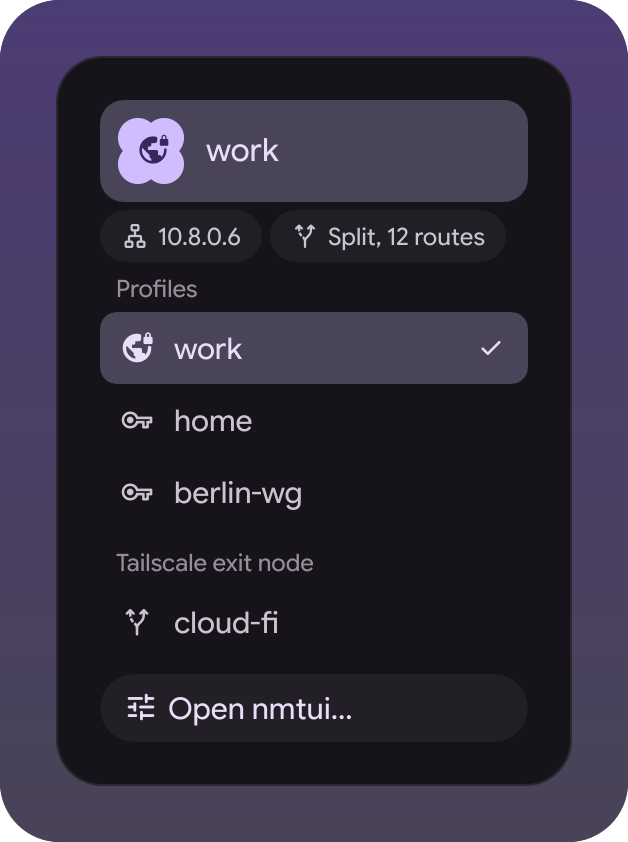
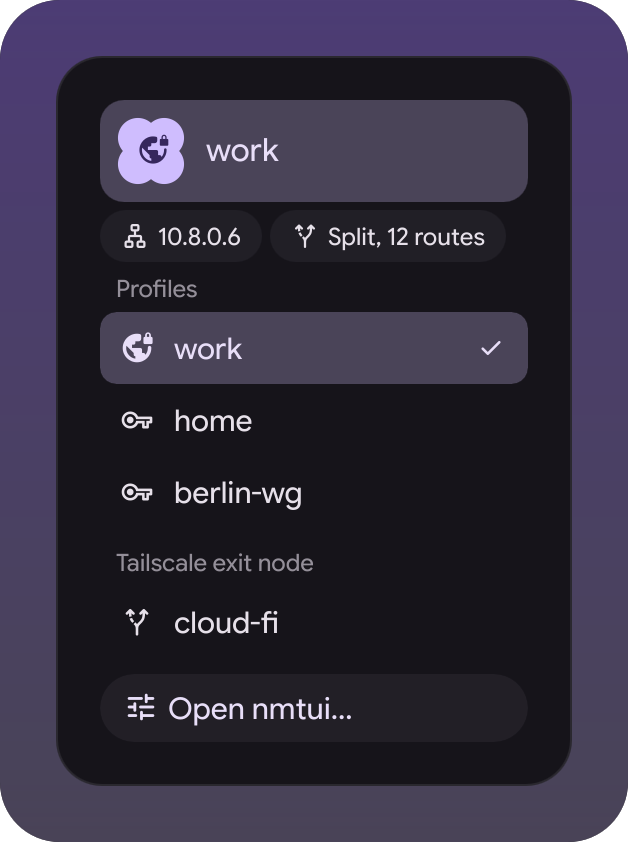
Menu: text and badge colors paired with the surface they sit on
Inactive rows and chips on colLayer3 take colOnLayer3, the off badge is colLayer4 with colOnLayer4 instead of a surface color as fill.

diff --git a/VpnMenu.qml b/VpnMenu.qml
@@ -63,12 +63,12 @@ Item {
             MaterialSymbol {
                 text: chip.icon
                 iconSize: Appearance.font.pixelSize.small
-                color: Appearance.colors.colOnSurfaceVariant
+                color: Appearance.colors.colOnLayer3
             }
             StyledText {
                 text: chip.label
                 font.pixelSize: Appearance.font.pixelSize.smaller
-                color: Appearance.colors.colOnSurfaceVariant
+                color: Appearance.colors.colOnLayer3
                 textFormat: Text.PlainText
             }
         }
@@ -79,7 +79,7 @@ Item {
         id: profileRow
         required property var modelData
         readonly property bool isActive: modelData.active === true
-        readonly property color colText: profileRow.isActive ? Appearance.colors.colOnSecondaryContainer : Appearance.colors.colOnSurfaceVariant
+        readonly property color colText: profileRow.isActive ? Appearance.colors.colOnSecondaryContainer : Appearance.colors.colOnLayer3
         readonly property bool isTailscale: modelData.kind === "tailscale"
         readonly property bool isBusy: root.vpnBusy === modelData.name
 
@@ -197,8 +197,8 @@ Item {
                     text: root.vpn.icon
                     iconSize: Appearance.font.pixelSize.large
                     padding: 7
-                    color: root.vpn.connected ? Appearance.colors.colPrimary : Appearance.colors.colSurfaceContainerHighest
-                    colSymbol: root.vpn.connected ? Appearance.colors.colOnPrimary : Appearance.colors.colOnSurfaceVariant
+                    color: root.vpn.connected ? Appearance.colors.colPrimary : Appearance.colors.colLayer4
+                    colSymbol: root.vpn.connected ? Appearance.colors.colOnPrimary : Appearance.colors.colOnLayer4
 
                     Behavior on color {
                         animation: Appearance.animation.elementMoveFast.colorAnimation.createObject(this)
